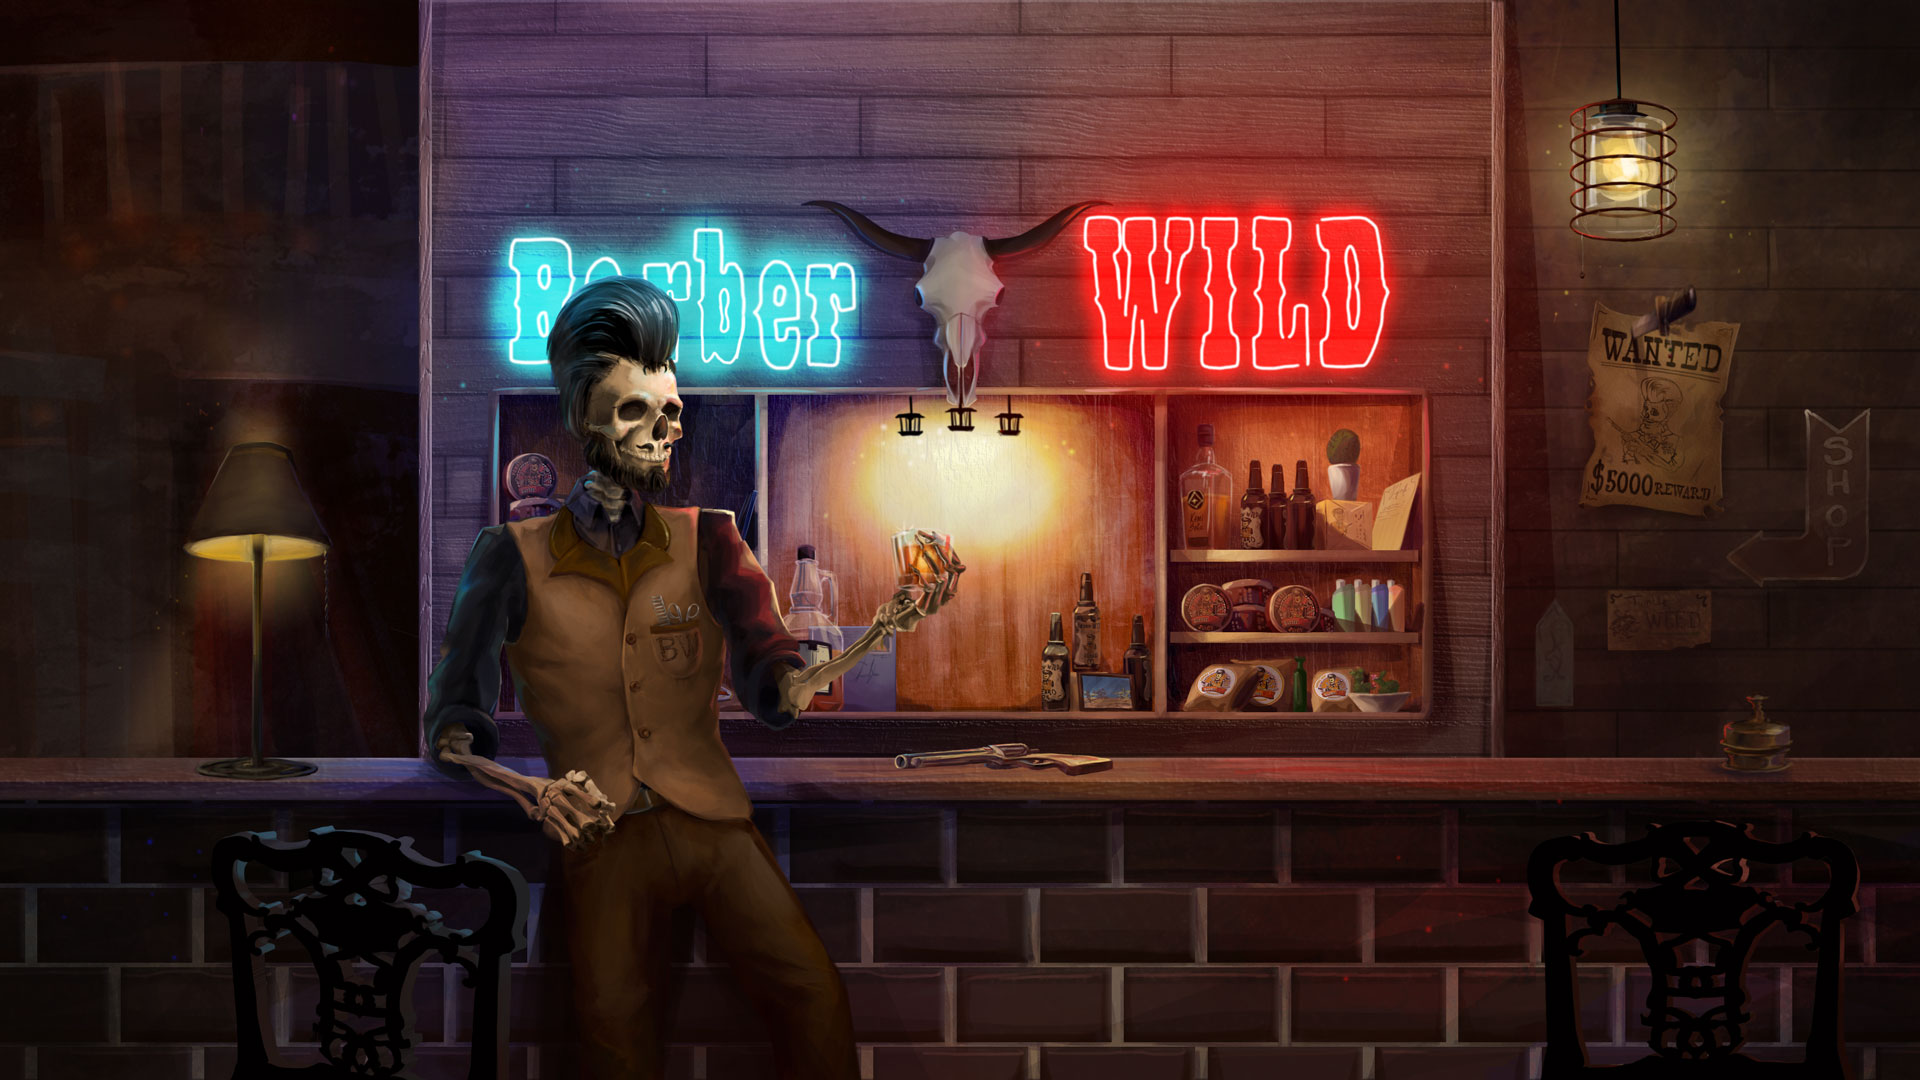
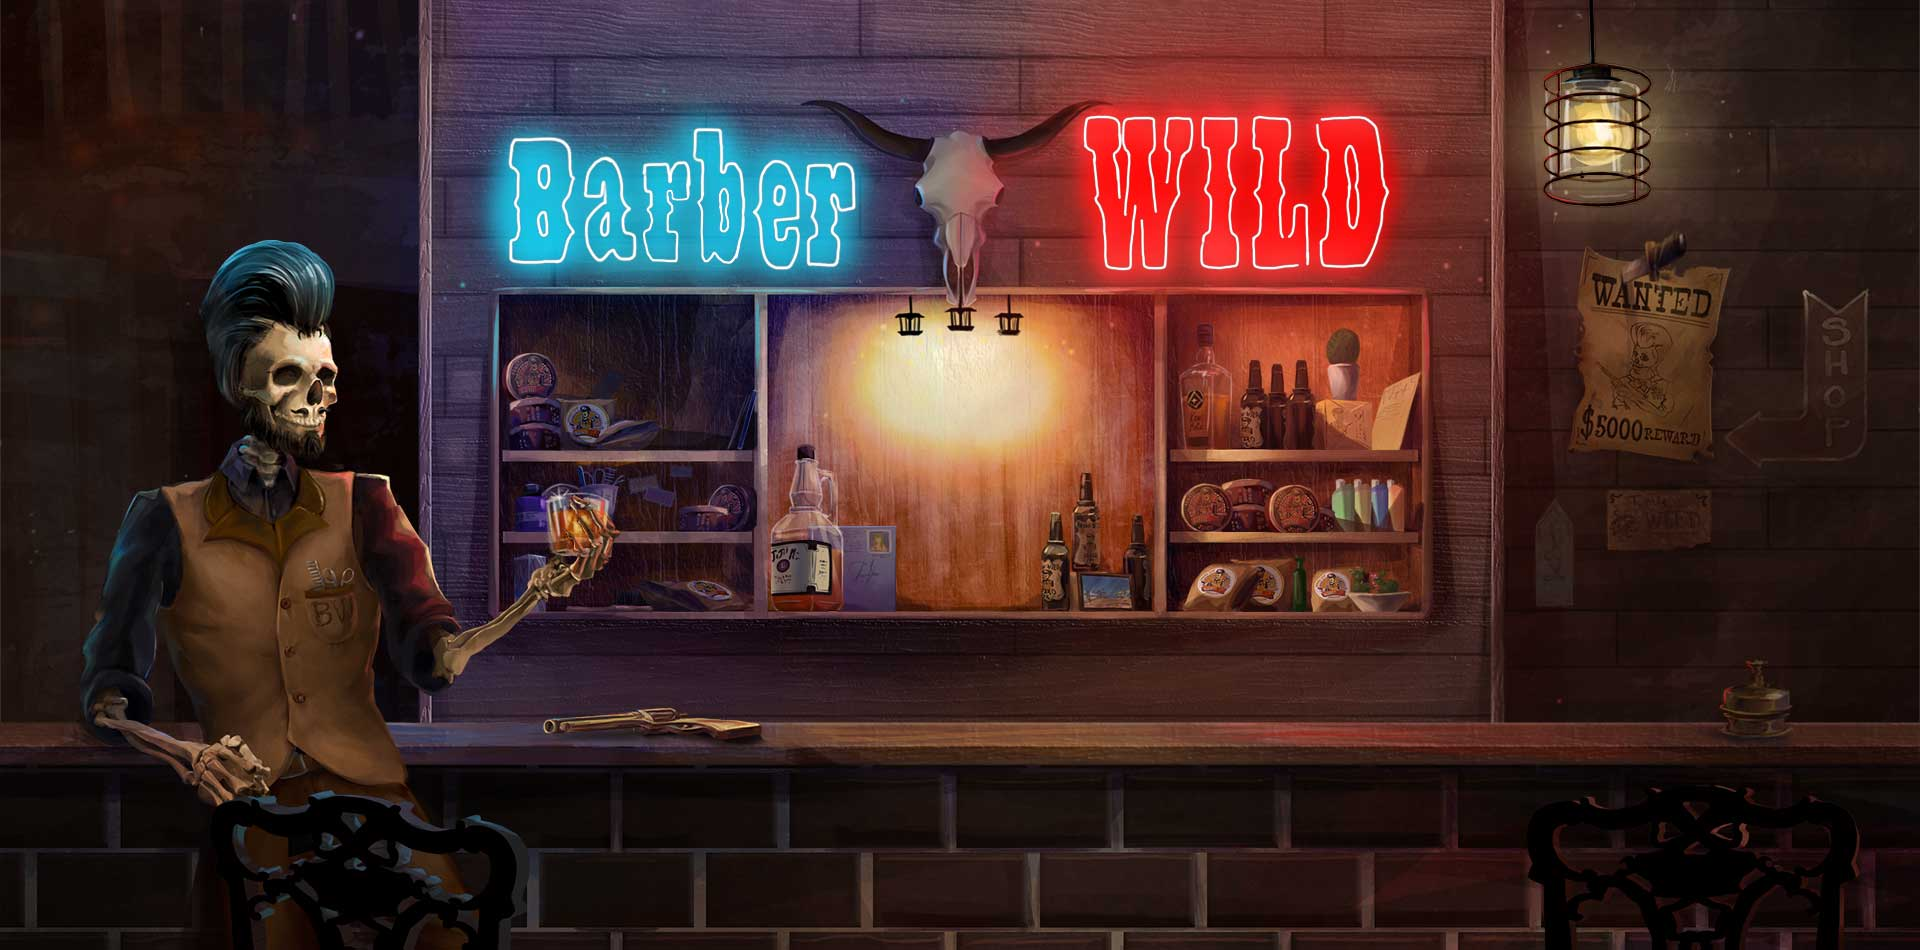
Hero and header fixes (sync commit)

diff --git a/app/temp/styles/styles.css b/app/temp/styles/styles.css
@@ -471,8 +471,10 @@ body {
     list-style: none; }
   .secondary-nav li {
     margin: 0;
-    padding: 10px; }
+    padding: 5px; }
   .secondary-nav a {
+    display: block;
+    padding: 5px;
     color: #c9aa71;
     font-family: "Roboto Condensed", sans-serif;
     font-size: 1.25rem;
@@ -484,7 +486,7 @@ body {
 
 .hero {
   position: relative;
-  height: 49.7vw;
+  height: 46.7vw;
   width: 100%;
   margin-top: 50px;
   font-size: 0;
@@ -493,16 +495,22 @@ body {
   .hero__text-content {
     position: absolute;
     right: 40px;
-    bottom: 20px;
+    bottom: 40px;
     text-align: right; }
   .hero__title {
+    margin: 0;
+    padding: 0;
+    padding-bottom: 0.5em;
     color: #ffffff;
     font-family: "Roboto Slab", Georgia, serif;
     font-size: 3rem; }
   .hero__subtitle {
+    margin: 0;
+    padding: 0;
     color: #ffffff;
     font-family: "Roboto Slab", Georgia, serif;
-    font-size: 1.5rem; }
+    font-size: 1.5rem;
+    font-weight: 300; }
 
 .scene {
   position: relative;

diff --git a/app/assets/sass/modules/_hero.scss b/app/assets/sass/modules/_hero.scss
@@ -3,7 +3,7 @@
     position: relative;
 
     // box model
-    height: 49.7vw;
+    height: 46.7vw;
     width: 100%;
     margin-top: 50px;
 
@@ -19,7 +19,8 @@
         // z-index: 999;
         // top: 0;
         right: 40px;
-        bottom: 20px;
+        bottom: 40px;
+        // bottom: 14em;    
         // bottom: 0;
 
         // typography
@@ -27,6 +28,11 @@
     }
 
     &__title {
+        // box model
+        margin: 0;
+        padding: 0;
+        padding-bottom: 0.5em;
+
         // typography
         color: #ffffff;
         // color: $justSand;
@@ -35,10 +41,15 @@
     }
 
     &__subtitle {
+        // box model
+        margin: 0;
+        padding: 0;
+
         // typography
         color: #ffffff;
         // color: $justSand;
         font-family: $mainFont;
         font-size: 1.5rem;
+        font-weight: 300;
     }
 }

diff --git a/app/assets/sass/modules/_secondary-nav.scss b/app/assets/sass/modules/_secondary-nav.scss
@@ -27,10 +27,14 @@
     li {
         // box model
         margin: 0;
-        padding: 10px;
+        padding: 5px;
     }
 
     a {
+        // box model
+        display: block;
+        padding: 5px;
+
         // typography
         color: $darkSand;
         font-family: $captionFont;
@@ -38,6 +42,8 @@
         font-weight: 400;
         text-decoration: none;
         text-transform: uppercase;
+
+        // border: 1px solid red;
 
         &:hover {
             // typography

diff --git a/app/assets/sass/modules/_main-nav.scss b/app/assets/sass/modules/_main-nav.scss
@@ -31,6 +31,8 @@
         color: $darkSand;
         font-family: $captionFont;
         font-size: 1rem;
+        // font-family: $mainFont;
+        // font-size: 0.875rem;
         font-weight: 400;
         text-decoration: none;
         text-transform: uppercase;
